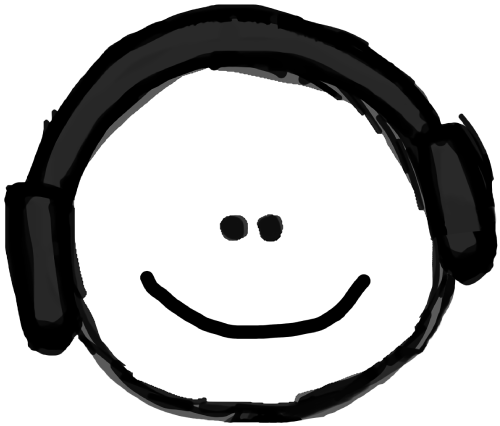
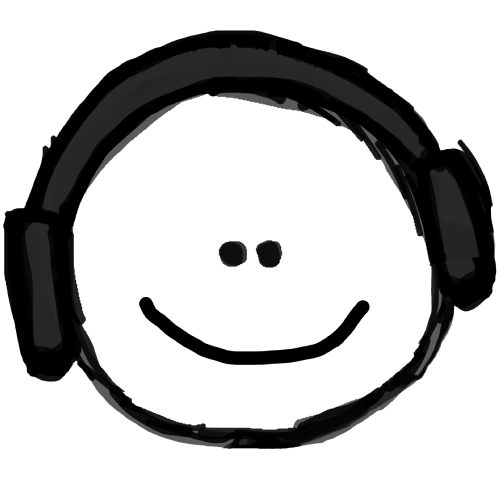
displaying face on face lol

diff --git a/main.js b/main.js
@@ -1,16 +1,13 @@
-const DEBUG_MODE = true
-const FACE_DETECT_THRESHOLD = 0.8
 const el_HeadImg = document.querySelector('#head-img')
 const el_DebugDisplay = document.querySelector('#debug-display')
 
-const displayDebugData = data => {
-	el_DebugDisplay.innerText = JSON.stringify(data, null, 2)
-}
+const DEBUG_MODE = true
+const FACE_DETECT_THRESHOLD = 0.8
 
 function main() {
 	let canvasHelper
 
-	// runs on initialization
+	// runs on facefilter initialization
 	const callbackReady = (error, spec) => {
 		if (error) {
 			console.error(error)
@@ -21,7 +18,7 @@ function main() {
 		console.log('ready!')
 	}
 
-	// runs each draw loop iteration
+	// runs on each facefilter draw loop iteration
 	const callbackTrack = detectState => {
 		// if face detected in the frame
 		if (detectState.detected > FACE_DETECT_THRESHOLD) {
@@ -30,33 +27,31 @@ function main() {
 			// get location of face on screen
 			const faceCoords = getCoordinates(detectState)
 
-			// parse detected facial expressions
-			const { expressions: expr } = detectState
-			const expressions = {
-				mouthOpen: expr[0],
-				mouthSmile: expr[1],
-				eyebrowFrown: expr[2],
-				eyebrowRaised: expr[3],
-			}
+			// TODO: incorporate expressions
+			// const { expressions: expr } = detectState
+			// const expressions = {
+			// 	mouthOpen: expr[0],
+			// 	mouthSmile: expr[1],
+			// 	eyebrowFrown: expr[2],
+			// 	eyebrowRaised: expr[3],
+			// }
 
-			if (DEBUG_MODE) {
-				displayDebugData({ faceCoords, expressions })
-
-				ctx.strokeStyle = 'yellow'
-				ctx.clearRect(0, 0, canvas.width, canvas.height)
-				ctx.strokeRect(faceCoords.x, faceCoords.y, faceCoords.w, faceCoords.h)
-			}
-
+			// draw image element on face location
 			const locationArgs = [
-				// my cat walked across the keyboard and wrote this (commiting it, for the culture):
-				// yuhhhhhhhhhhhhhhhhhhhhhhhhhhhhhhhhhhhhhhhhhhhhhhhhhhhhhhhhhhhhhhhhhhhhu7y6666666666666666666666666666666666666666666666666666666
 				faceCoords.x,
 				faceCoords.y,
-				faceCoords.w * 2,
-				faceCoords.h * 2,
+				faceCoords.w,
+				faceCoords.h,
 			]
 
+			ctx.clearRect(0, 0, canvas.width, canvas.height)
 			ctx.drawImage(el_HeadImg, ...locationArgs)
+
+			if (DEBUG_MODE) {
+				ctx.strokeStyle = 'yellow'
+				ctx.strokeRect(faceCoords.x, faceCoords.y, faceCoords.w, faceCoords.h)
+				el_DebugDisplay.innerText = JSON.stringify({ faceCoords }, null, 2)
+			}
 
 			// flag the `canvasHelper` to trigger a canvas update on the next `canvasHelper.draw()`
 			update_canvasTexture()

diff --git a/index.html b/index.html
@@ -11,7 +11,7 @@
 		<title>mfermask</title>
 	</head>
 	<body>
-		<img id="head-img" src="images/plain-head.png" style="display: none" />
+		<img id="head-img" src="images/plain-head-flipped.png" style="display: none" />
 		<div id="main">
 			<div>
 				<canvas width="300" height="300" id="output-canvas"></canvas>
